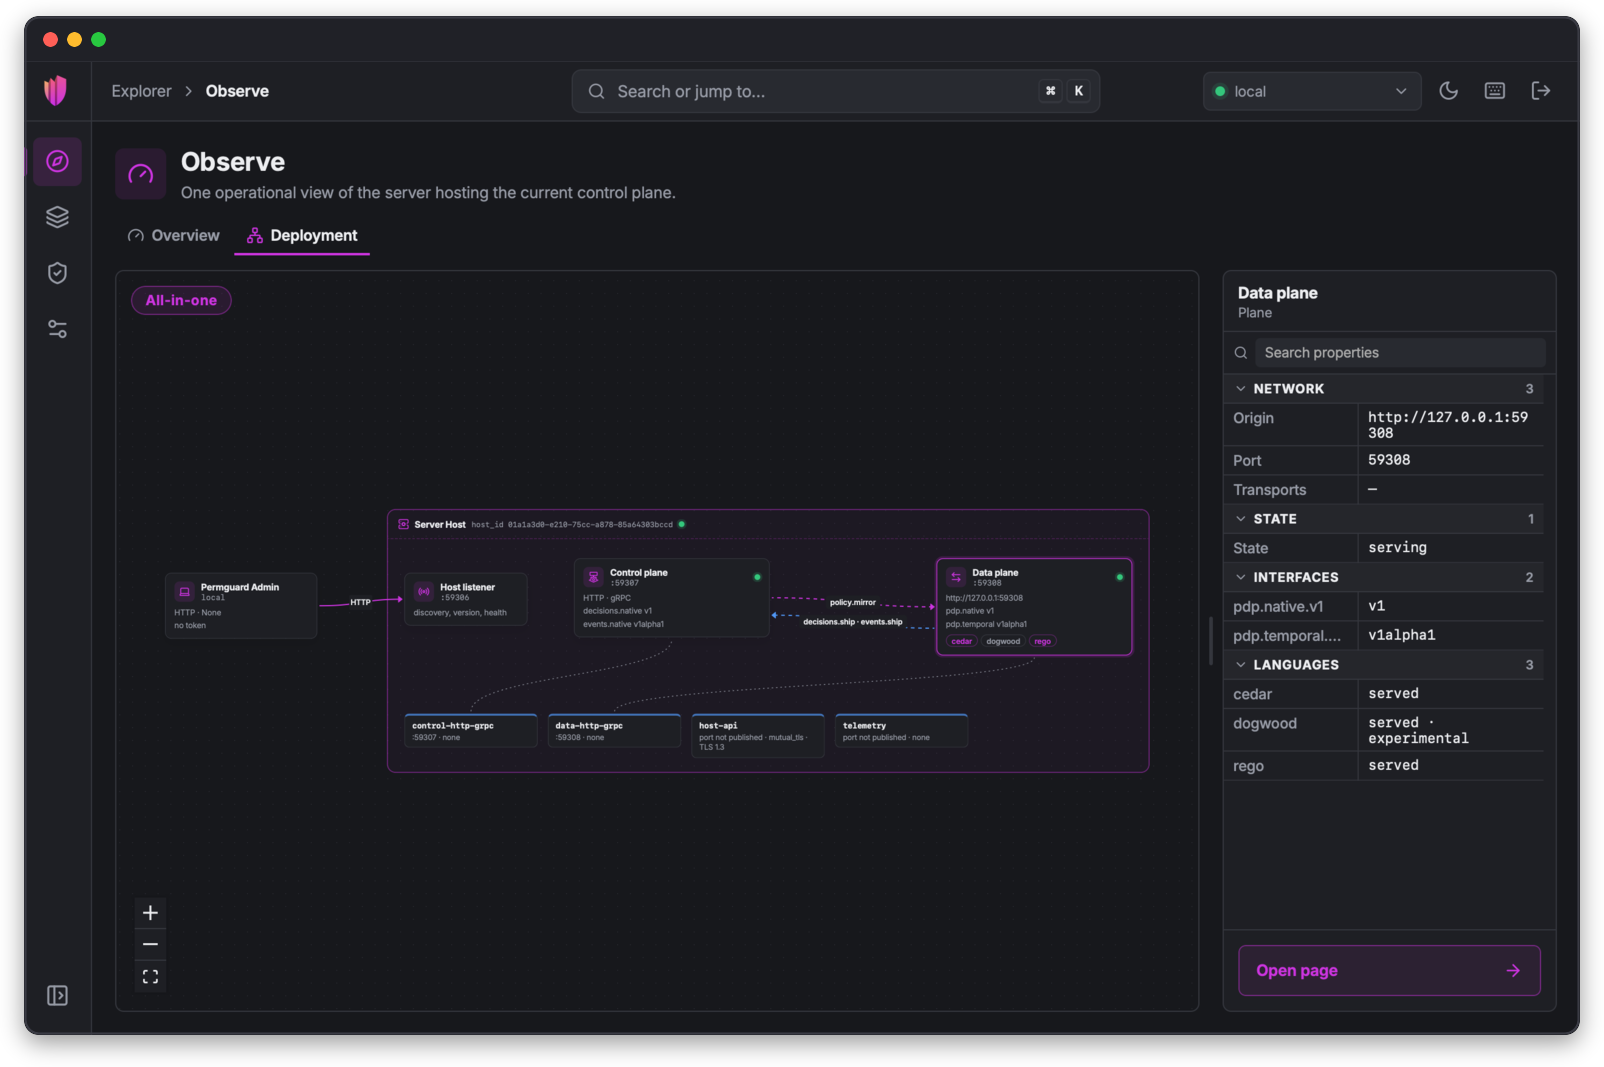
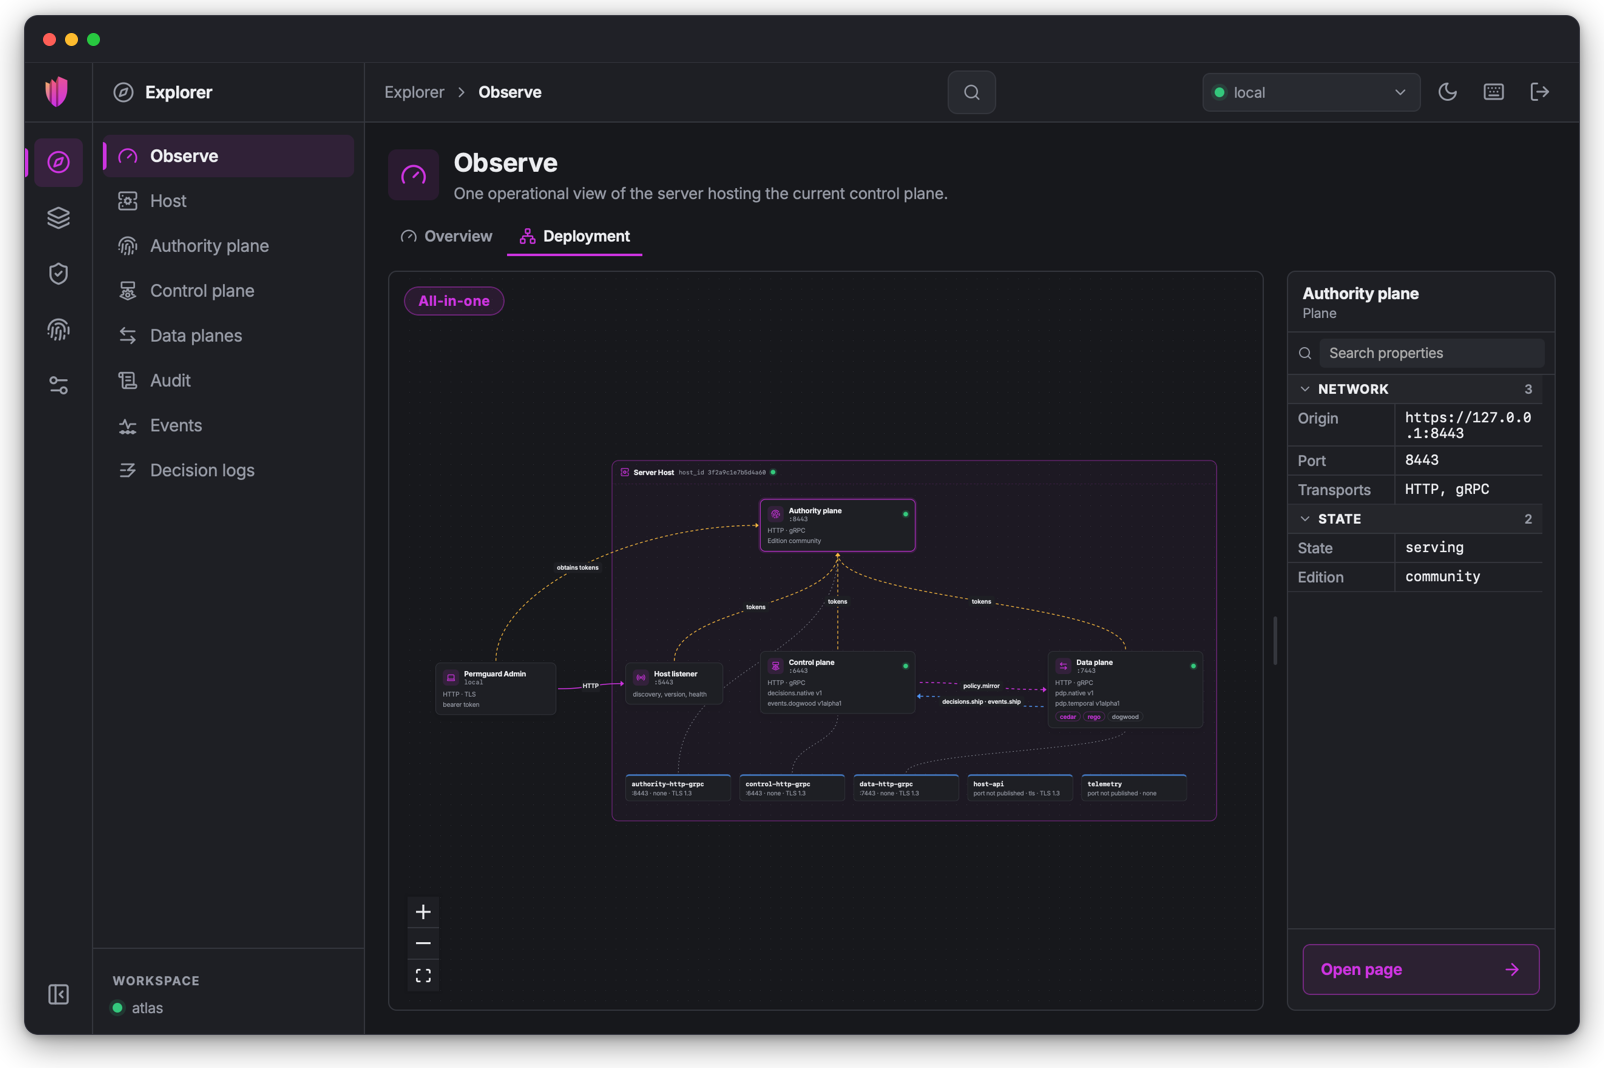
docs(readme): decide who may call Permguard, the Authority Plane in the deployment and the lab

diff --git a/README.md b/README.md
@@ -40,22 +40,22 @@ Connect it to your Control Planes and manage them from one window: the server th
 No curl, no guessing: and when you want the command line, every ledger has its own, sandboxed.
 
 <p align="center">
-  <img src="assets/screens/observe.png" alt="The Observe page: the server of the current control plane, active, over HTTP with mutual TLS, with its version, its round trip, a small topology of the Host, the Control Plane and the Data Plane, and a map of the surfaces to open." width="820">
+  <img src="assets/screens/observe.png" alt="The Observe page: the server of the current control plane, 127.0.0.1:5443, serving, with its transport and TLS, its lifecycle, components, version and round trip, a small topology of the Host with the Authority, Control and Data Planes it hosts, and a map of the surfaces to open." width="820">
 </p>
 
 ## What you can do
 
 <p align="center">
-  <img src="assets/sections.png" alt="Four sections. Explorer, observe: the Host and its planes, the live events, the decision logs. Ledgers, sync: clone with the CLI, pull when the head moves, read files and commits. Evaluations, ask and load: ask the data plane, run real suites as load, check every decision. Settings, connect: control planes, TLS, token files, theme and language." width="820">
+  <img src="assets/sections.png" alt="Five sections. Explorer, observe: the Host and its planes, the live events, the decision logs. Ledgers, sync: clone with the CLI, pull when the head moves, read files and commits. Evaluations, ask and load: ask the data plane, run real suites as load, check every decision. Authority, grant: service accounts, their scopes and keys, the tokens issued. Settings, connect: control planes, TLS, each entry's credential, theme and language." width="820">
 </p>
 
 ### See your deployment at a glance
 
-Permguard Admin draws your server as it really is: the Host, the Control Plane and the Data Plane, their ports and listeners, and how policies, decisions and events flow between them.
+Permguard Admin draws your server as it really is: the Host, the Authority Plane, the Control Plane and the Data Plane, their ports and listeners, and how policies, decisions, events and tokens flow between them.
 Click anything to read its details, double-click a plane to open it.
 
 <p align="center">
-  <img src="assets/screens/deployment.png" alt="The Deployment tab of Observe: an all-in-one server, with Permguard Admin reaching the Host listener, the Control Plane and the Data Plane exchanging policy.mirror and decisions.ship · events.ship, the four listeners below, and the facts of the selected Data Plane: its origin, state, interfaces and the languages it serves." width="820">
+  <img src="assets/screens/deployment.png" alt="The Deployment tab of Observe: an all-in-one server, with Permguard Admin obtaining tokens from the Authority Plane on 8443 and reaching the Host listener over HTTP; the Host listener, the Control Plane and the Data Plane each verify those tokens, the Control Plane and the Data Plane exchange policy.mirror and decisions.ship · events.ship, and the five listeners sit below; beside it, the facts of the selected Authority Plane." width="820">
 </p>
 
 ### Follow every event, live
@@ -198,13 +198,35 @@ The playground ships three suites to start from.
 
 </details>
 
+### Decide who may call Permguard
+
+Every program that calls Permguard is a service account of your Authority Plane: your checkout service, your release pipeline, your nightly export, and Permguard Admin itself.
+Create one, give it exactly the operations it needs, add an access key, and it obtains short-lived tokens that every plane checks by itself.
+See every token issued, revoke one in a click, suspend an account and every token it holds is refused.
+
+<p align="center">
+  <img src="assets/screens/service-accounts.png" alt="The Service Accounts page of the Authority section: five accounts of the entry local, admin the administrator with every operation, billing, checkout-service and ci-release active with their scopes, audit-export suspended; below, the four valid tokens the Authority Plane issued, each with its account, access key, scopes, issue and expiry; on the right, checkout-service open: its scope decision.evaluate on plane/data/*, its access key, last used today, and its token." width="820">
+</p>
+
+<details>
+<summary><b>A secret key is shown once, and never kept</b></summary>
+
+<p align="center">
+  <img src="assets/screens/service-account-key.png" alt="The dialog after adding a key to checkout-service: The secret key, shown once, with the new access key and its secret key, a warning that it is never shown again because the Authority Plane keeps only its hash and this application nothing, and the buttons Save to file and I have stored it." width="820">
+</p>
+
+Copy it or save it to a file only you can read, then confirm you stored it: the Authority Plane keeps only its hash, and Permguard Admin keeps nothing.
+
+</details>
+
 ### Connect to all your Control Planes
 
-Add your local Control Plane, staging and production side by side, over HTTP or gRPC, with TLS, mutual TLS and bearer tokens.
+Add your local Control Plane, staging and production side by side, over HTTP or gRPC, with TLS and mutual TLS, calling each as one of its service accounts, or with a bearer token.
+No server yet? With Docker, Permguard Admin deploys a complete lab on your computer, its own Authority Plane included, and connects to it as its administrator.
 Switch between them from the top bar; a dot tells you at a glance which ones are online.
 
 <p align="center">
-  <img src="assets/screens/control-planes.png" alt="The Control planes page: the local all-in-one lab, running, with its ports and sample data; below, the control plane local, active, current and locked because it has a clone, over HTTP with mutual TLS." width="820">
+  <img src="assets/screens/control-planes.png" alt="The Control planes page: the local lab, a cluster of a Control Plane and two Data Planes, running, with its ports, the Authority Plane on 8443 and sample data; the entry acts as sa:admin, its access key and secret kept in the lab's private folder, with a button to its service accounts; below, the control plane local, active, current and locked because it has a clone." width="820">
 </p>
 
 ### Bring Permguard into your code
